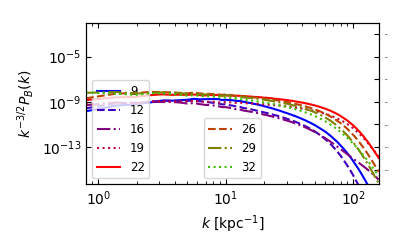
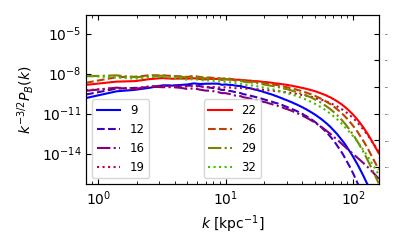
Revised spectra plots

diff --git a/ssdyn_letter.tex b/ssdyn_letter.tex
@@ -716,23 +716,23 @@ Figure\,\ref{fig:eb-res}\,(b) and consistent with the presence of SSD.
 \begin{figure*}
 \gridline{\vspace{-0.7cm} \fig{figs/nu0_Bpower.png}{0.45\textwidth}{\vspace{-1.3cm}\hspace{-2cm}(a)}
           \vspace{-0.7cm} \fig{figs/nu0_kpower.png}{0.45\textwidth}{\vspace{-1.3cm}\hspace{-2cm}(b)}}                                                                             
-\gridline{\vspace{-0.7cm}\fig{figs/nu10_Bpower.png}{0.45\textwidth}{\vspace{-1.3cm}\hspace{-2cm}(c)}
-          \vspace{-0.7cm}\fig{figs/nu10_kpower.png}{0.45\textwidth}{\vspace{-1.3cm}\hspace{-2cm}(d)}}                                                                             
-\gridline{\vspace{-0.7cm} \fig{figs/nu1_Bpower.png}{0.45\textwidth}{\vspace{-1.3cm}\hspace{-2cm}(e)}
-          \vspace{-0.7cm} \fig{figs/nu1_kpower.png}{0.45\textwidth}{\vspace{-1.3cm}\hspace{-2cm}(f)}}                                                                             
+\gridline{\vspace{-0.7cm}\fig{figs/nu1_Bpower.png}{0.45\textwidth}{\vspace{-1.3cm}\hspace{-2cm}(c)}
+          \vspace{-0.7cm}\fig{figs/nu1_kpower.png}{0.45\textwidth}{\vspace{-1.3cm}\hspace{-2cm}(d)}}                                                                             
+\gridline{\vspace{-0.7cm} \fig{figs/nu10_Bpower.png}{0.45\textwidth}{\vspace{-1.3cm}\hspace{-2cm}(e)}
+          \vspace{-0.7cm} \fig{figs/nu10_kpower.png}{0.45\textwidth}{\vspace{-1.3cm}\hspace{-2cm}(f)}}                                                                             
 \gridline{\vspace{-0.3cm}  \fig{figs/SN_Bpower.png}{0.45\textwidth}{\vspace{-1.3cm}\hspace{-2cm}(g)}
           \vspace{-0.3cm}  \fig{figs/SN_kpower.png}{0.45\textwidth}{\vspace{-1.3cm}\hspace{-2cm}(h)} }
 \caption{
-Compensated energy spectra at dynamo saturation (or late time) for each
-resolution.
+(a) -- (f): compensated energy spectra at $t=18\Myr$ ($\dx=0.5\pc$), $t=20\Myr$
+($\dx=1\pc$), $t=100\Myr$ ($\dx=2\pc$) and $t=350\Myr$ ($\dx=4\pc$).
 Resistivity $\eta=0,\,10^{-4}$ and $10^{-3}$ in panel pairs (a,b), (c,d) and
 (e,f), respectively.
+Panels (g,h) for $\dx=2\pc$ at 100\,Myr for $\dot\sigma=0.2\SNr$ and
+140\,Myr for $\dot\sigma=\SNr$ for
+$\eta=10^{-4}$ or $10^{-3}$ as listed in the legends show the effect of 
+supernova rate.
 Energy spectra are compensated against theoretical profiles of Kazentsev
-$k^{3/2}$, left panels, and Kolmogorov $k^{-5/3}$, right, 
-each represented by the horizontal black dashed lines.
-Panels (g,h) for $2\pc$ resolution at 200\,Myr show the effect of supernova rate
-$\dot\sigma=0.2\SNr$ or $\SNr$ for
-$\eta=10^{-4}$ or $10^{-3}$ as listed in the legends.
+$k^{3/2}$, left panels, and Kolmogorov $k^{-5/3}$, right. 
 \label{fig:3power}}
 \end{figure*}
 
@@ -745,9 +745,10 @@ is absent, perhaps relevant to the false convergence at low resolution
 referred to from Figure\,\ref{fig:eb-res}\,(b).
 Note the bottleneck effect is a feature of the low Pm dynamo, because the
 resistive cutoff occurs at lower $k$ than the viscous cutoff.
-With only $\nu_3$ applicable throughout resistivity is typically higher, 
-except in regions where $\zeta_\nu$ applies Pm can be greater than 1.
-With the more diffusive low resolution runs
+With only $\nu_3$ applicable resistivity throughout is typically higher, 
+except for regions where $\zeta_\nu$ applies Pm can be greater than 1.
+With the more diffusive low resolution runs $\zeta_nu$ applies in greater
+proportion and can push the average Pm above 1.
 
 In these experiments
 
